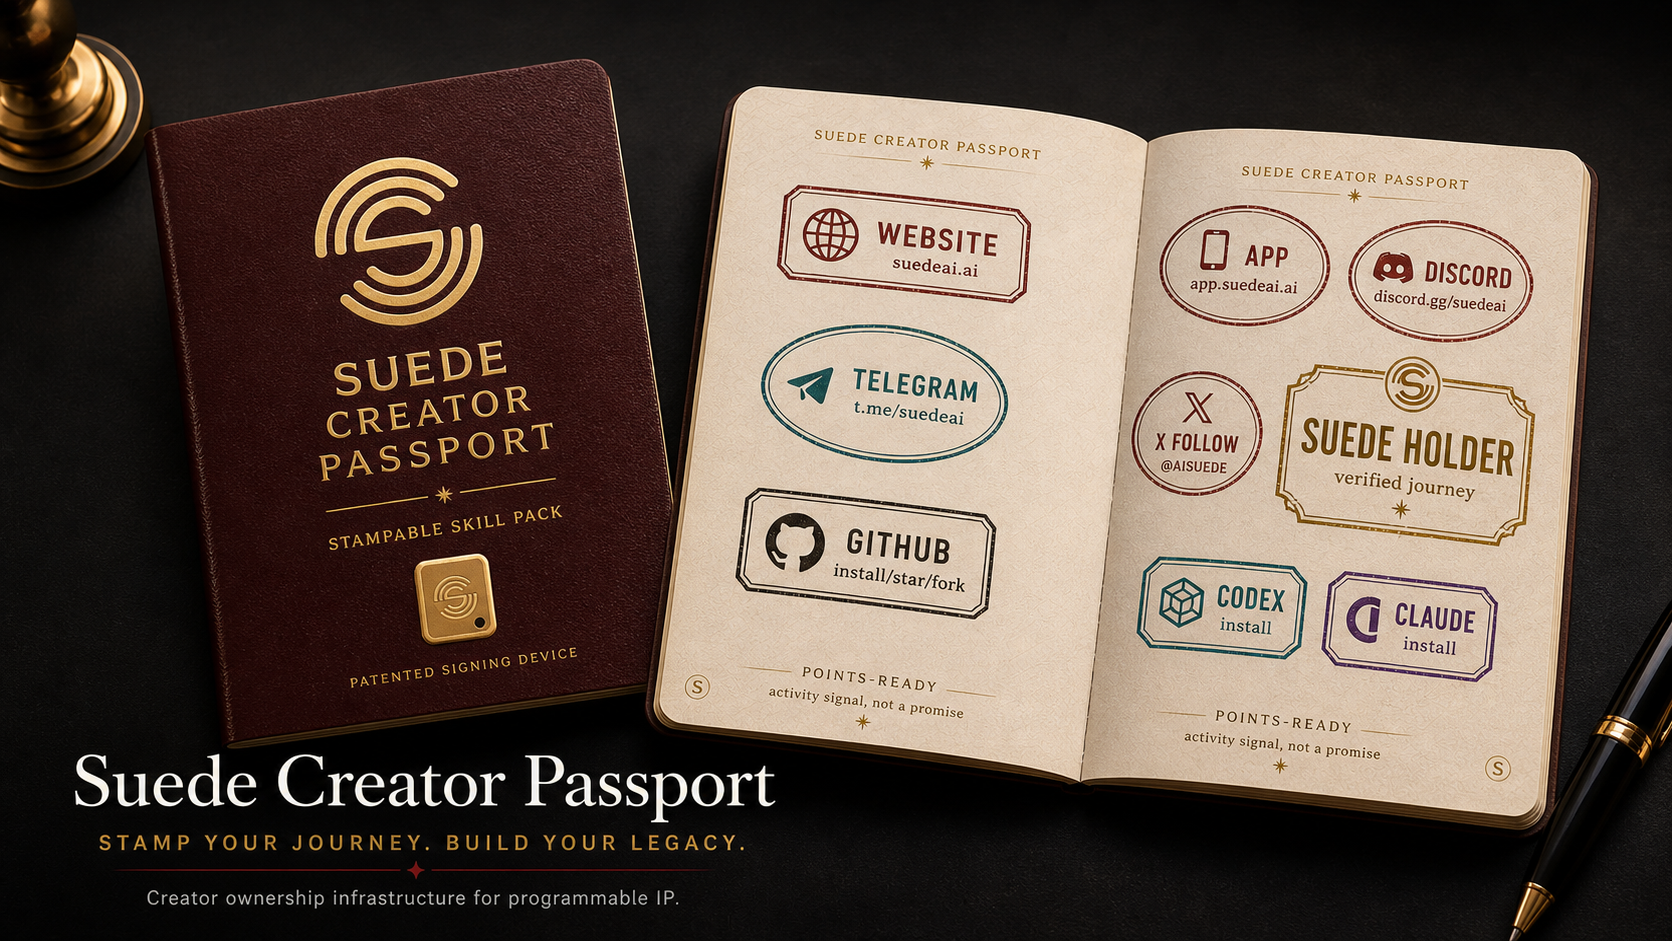
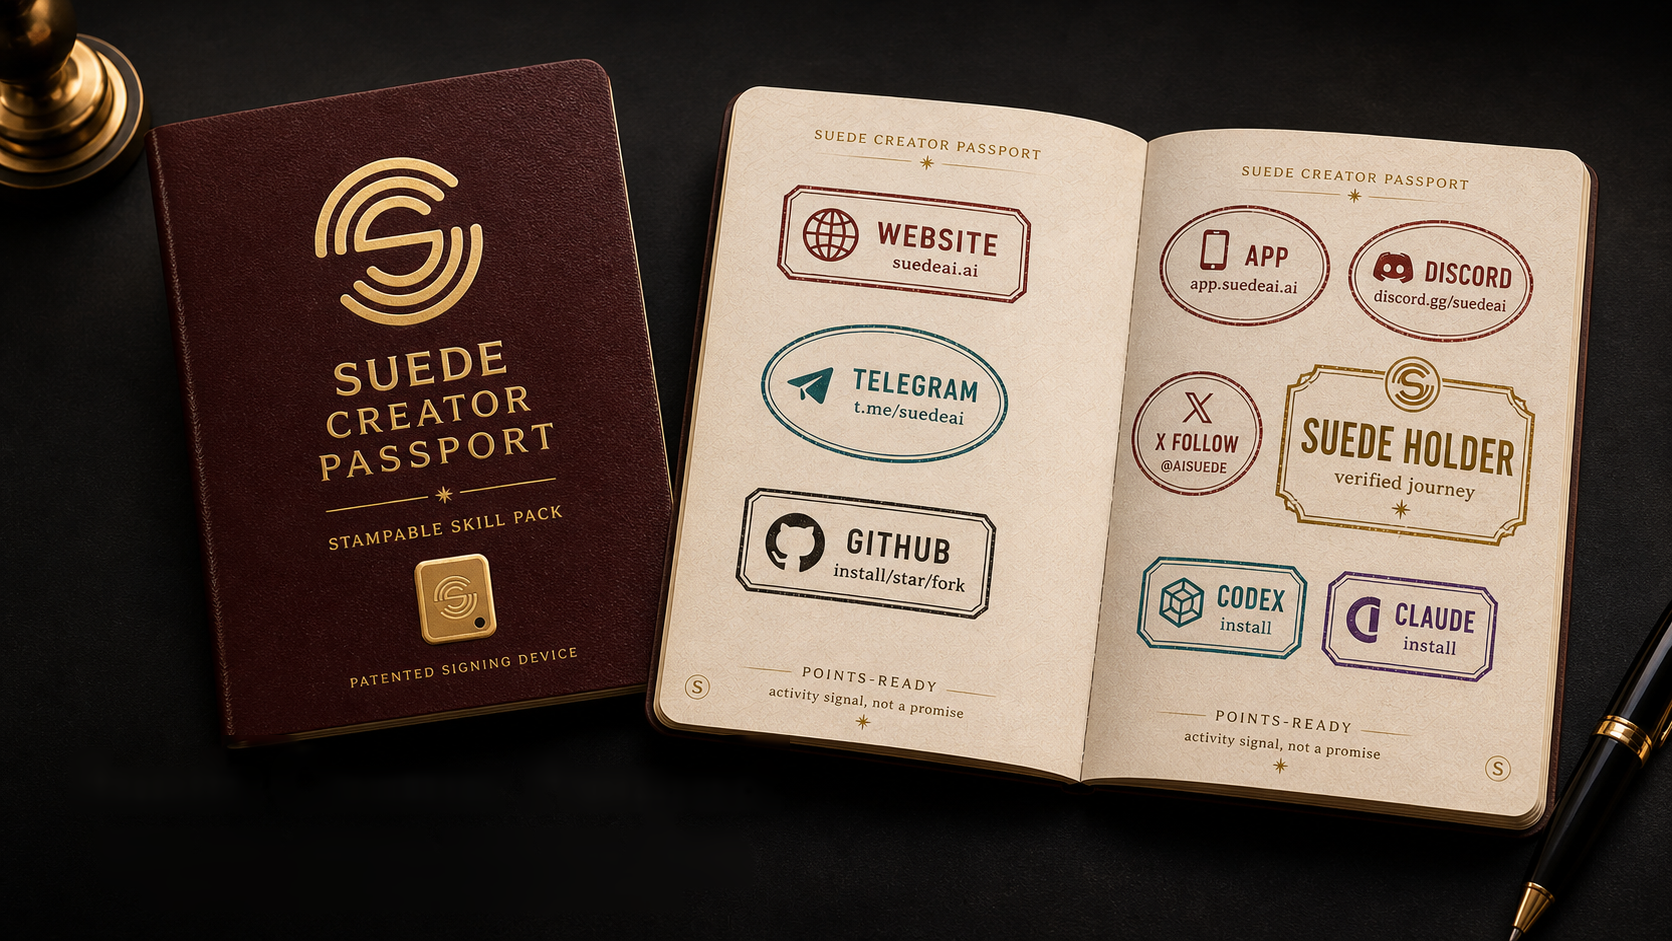
docs: clean passport hero caption

Changed region(s): [[0.0311, 0.8013, 0.4665, 0.9862]]

diff --git a/docs/index.html b/docs/index.html
@@ -1153,6 +1153,24 @@
               </div>
             </article>
           </div>
+          <div class="use-grid" aria-label="Additional musician workflow skills">
+            <article class="use-card" aria-labelledby="skill-stem-pack-title">
+              <h3 id="skill-stem-pack-title">Stem Pack Prep</h3>
+              <span>Check vocals, drums, bass, instrumentals, alternates, and naming before sending files to collaborators, labels, or sync teams.</span>
+            </article>
+            <article class="use-card" aria-labelledby="skill-split-sheet-title">
+              <h3 id="skill-split-sheet-title">Split Sheet Check</h3>
+              <span>Catch missing writers, producers, percentages, publisher notes, and payout destinations before a catalog moves into review.</span>
+            </article>
+            <article class="use-card" aria-labelledby="skill-lyric-hook-title">
+              <h3 id="skill-lyric-hook-title">Lyric + Hook Pack</h3>
+              <span>Package clean lyrics, hooks, alternate titles, credits, artwork notes, and provenance context for release and licensing prep.</span>
+            </article>
+            <article class="use-card" aria-labelledby="skill-sample-notes-title">
+              <h3 id="skill-sample-notes-title">Sample Notes</h3>
+              <span>Flag samples, covers, interpolations, voice references, clearance gaps, and source notes without claiming legal approval.</span>
+            </article>
+          </div>
         </div>
       </section>
 